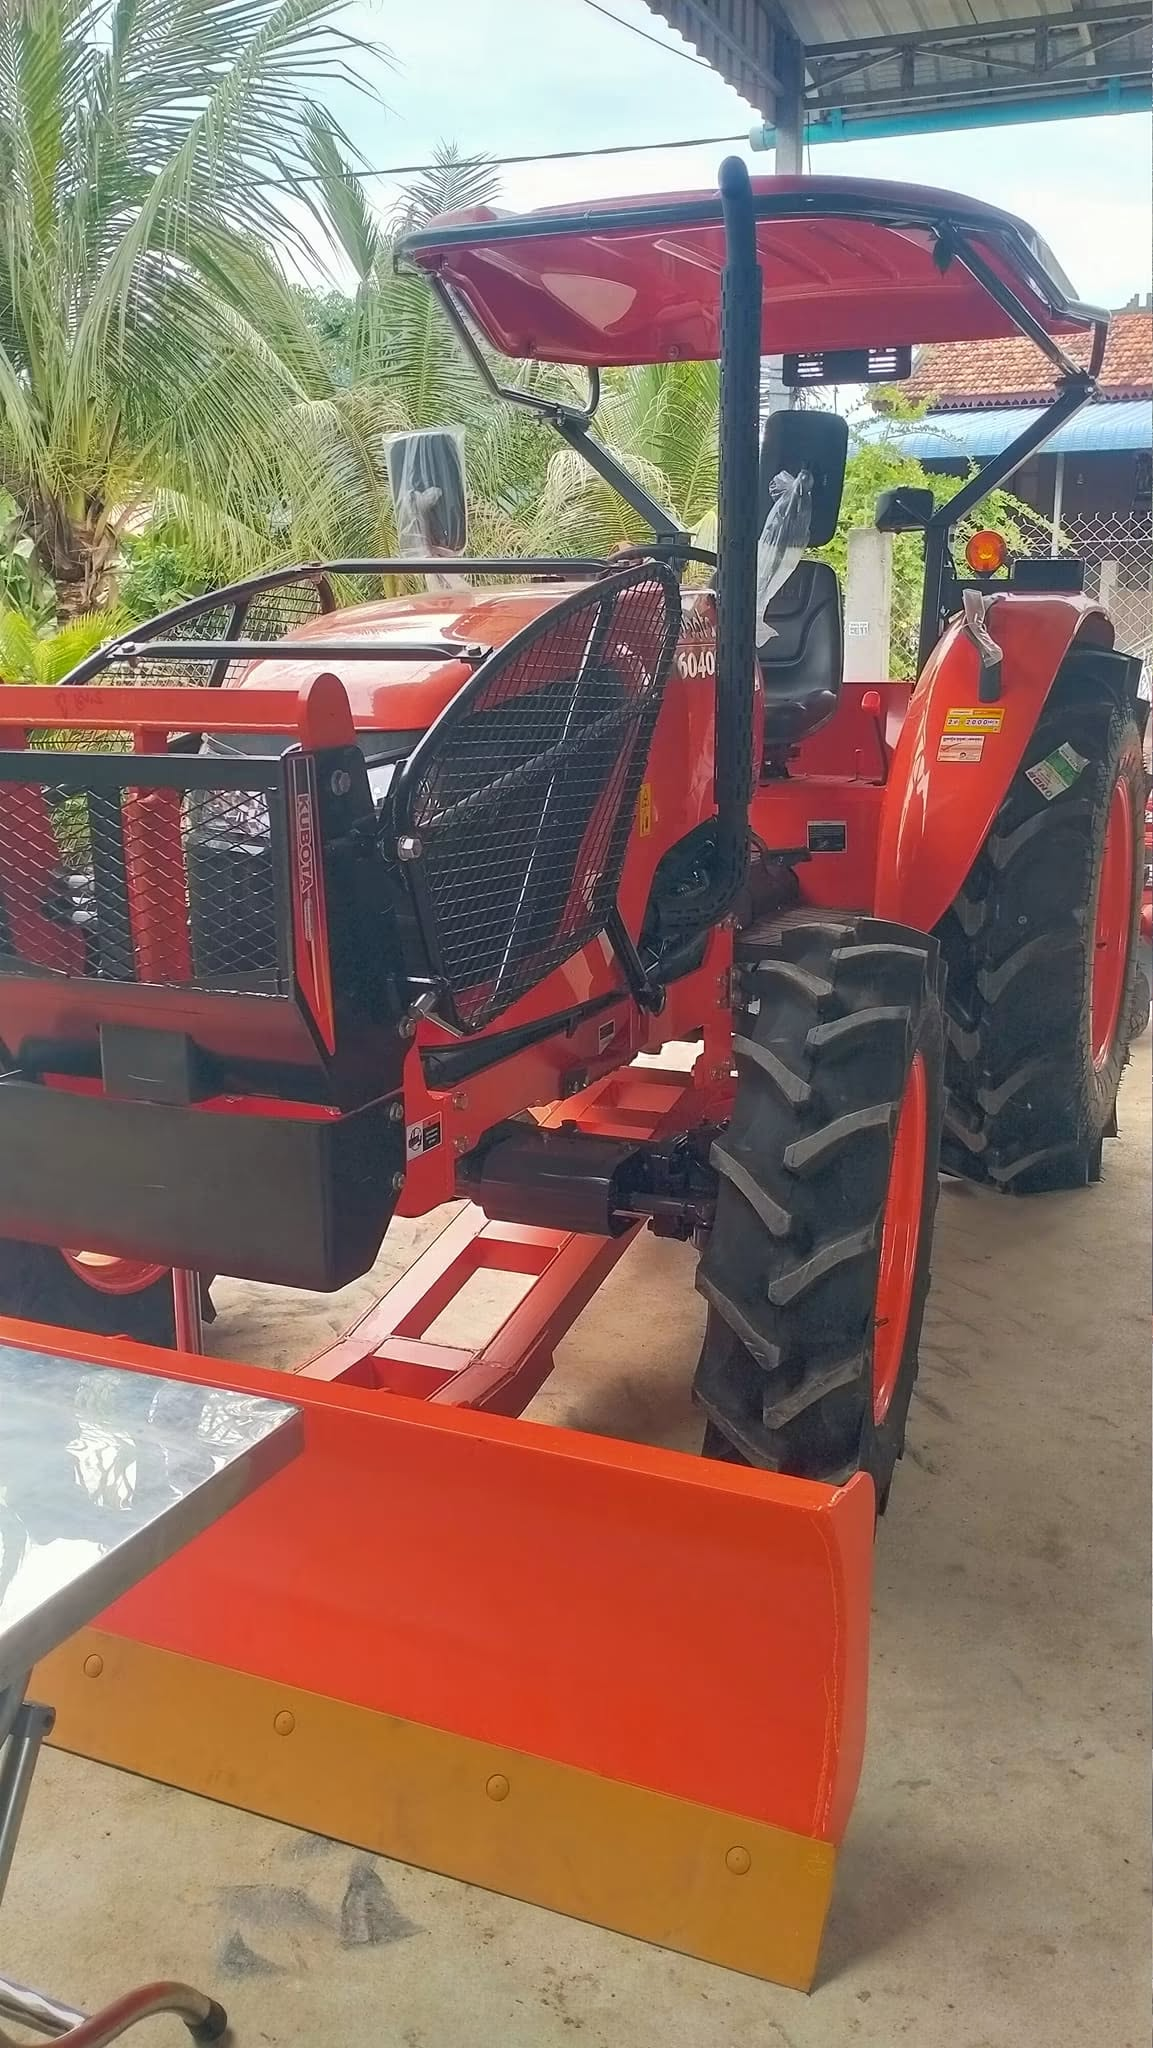
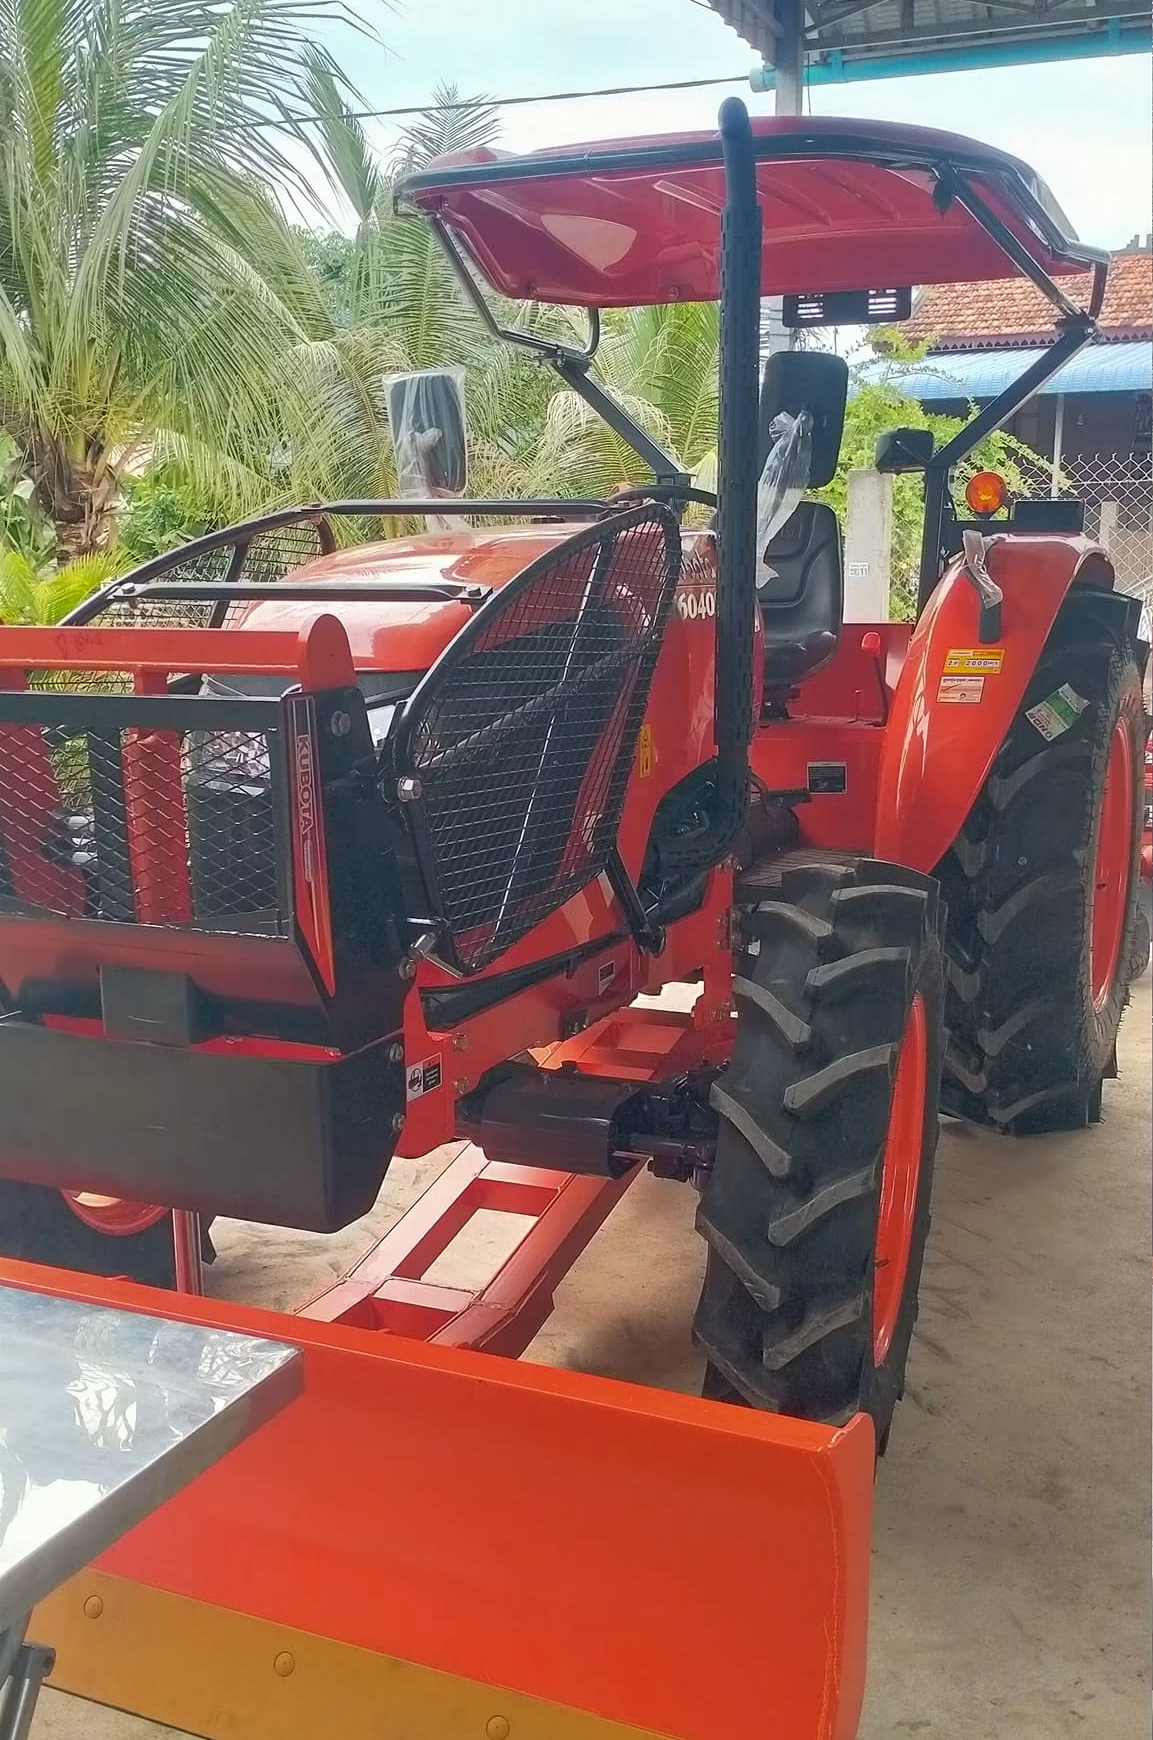
Fix photho

diff --git a/index.html b/index.html
@@ -3,13 +3,13 @@
 <head>
   <meta charset="UTF-8" />
   <meta name="viewport" content="width=device-width, initial-scale=1.0" />
-  <title>បងស្រនម៉ាស៉ុនច្រូត | សេវាកម្មច្រូតកាត់ស្រូវ និងវាយដីត្រាក់ទ័រ ខេត្តតាកែវ</title>
+  <title >បងស្រនម៉ាស៉ុនច្រូត | សេវាកម្មច្រូតកាត់ស្រូវ និងវាយដីត្រាក់ទ័រ ខេត្តតាកែវ</title>
   <meta name="description" content="បងស្រនម៉ាស៉ុនច្រូត - សេវាកម្មច្រូតកាត់ស្រូវ (Kubota DC-70 Pro) និងវាយដី ឈូសដីត្រាក់ទ័រ (Kubota M6040) នៅភូមិព្រៃភ្លង ស្រុកទ្រាំង ខេត្តតាកែវ។ ទំនាក់ទំនង 097 547 1944" />
   <link rel="preconnect" href="https://fonts.googleapis.com">
   <link rel="preconnect" href="https://fonts.gstatic.com" crossorigin>
   <link href="https://fonts.googleapis.com/css2?family=Kantumruy+Pro:wght@400;500;600;700&family=Plus+Jakarta+Sans:wght@500;600;700;800&display=swap" rel="stylesheet">
   <script src="https://cdn.tailwindcss.com"></script>
-  <link rel="stylesheet" href="styles.css" />
+  <link rel="stylesheet" href="style.css" />
 </head>
 <body class="bg-stone-50 text-stone-800 pb-24 md:pb-0">
 
@@ -18,7 +18,7 @@
     <div class="max-w-6xl mx-auto px-4 py-3 flex items-center justify-between gap-3">
       <div class="flex items-center gap-3">
         <div class="w-11 h-11 rounded-xl bg-kubota-orange text-white flex items-center justify-center font-bold text-xl shadow-sm shrink-0">
-          🚜
+          🌾
         </div>
         <div>
           <h1 class="font-bold text-lg md:text-xl text-stone-900 leading-tight" data-i18n="brandName">
@@ -73,7 +73,7 @@
       <!-- Featured Machine Card -->
       <div class="relative">
         <div class="rounded-3xl overflow-hidden border-4 border-white/15 shadow-2xl bg-stone-800">
-          <img src="images/kubota-dc70-pro.png" alt="ម៉ាស៊ីនច្រូតស្រូវ Kubota DC-70 Pro" class="w-full h-80 md:h-96 object-cover" />
+          <img src="images/kubota-dc70-pro.png" alt="ម៉ាស៊ីនច្រូតស្រូវ Kubota DC-70 Pro" class="machine-photo hero-machine w-full h-80 md:h-96" />
           <div class="p-4 bg-stone-900/90 flex items-center justify-between">
             <div>
               <p class="font-bold text-white text-base">Kubota DC-70 Pro</p>
@@ -101,7 +101,7 @@
       <!-- Service 1: Rice Harvesting -->
       <div class="bg-white rounded-3xl overflow-hidden border border-stone-200 shadow-md hover:shadow-xl transition flex flex-col">
         <div class="relative h-72 bg-stone-100">
-          <img src="images/kubota-dc70-pro.png" alt="ច្រូតកាត់ស្រូវ Kubota DC-70 Pro" class="w-full h-full object-cover" />
+          <img src="images/kubota-dc70-pro.png" alt="ច្រូតកាត់ស្រូវ Kubota DC-70 Pro" class="machine-photo harvest-photo w-full h-full" />
           <span class="absolute top-4 left-4 bg-kubota-orange text-white text-xs font-bold px-3.5 py-1.5 rounded-full shadow">
             Kubota DC-70 Pro
           </span>
@@ -129,7 +129,7 @@
       <!-- Service 2: Tractor Plowing & Tilling -->
       <div class="bg-white rounded-3xl overflow-hidden border border-stone-200 shadow-md hover:shadow-xl transition flex flex-col">
         <div class="relative h-72 bg-stone-100">
-          <img src="images/kubota-m6040.png" alt="វាយដីត្រាក់ទ័រ Kubota M6040" class="w-full h-full object-cover" />
+          <img src="images/kubota-m6040.png" alt="Kubota M6040" class="machine-photo tractor-photo w-full h-full" />
           <span class="absolute top-4 left-4 bg-paddy-green text-white text-xs font-bold px-3.5 py-1.5 rounded-full shadow">
             Kubota M6040
           </span>
@@ -245,7 +245,7 @@
   <section id="about" class="max-w-6xl mx-auto px-4 py-12 md:py-16">
     <div class="bg-white rounded-3xl border border-stone-200 shadow-md overflow-hidden grid md:grid-cols-2 items-center">
       <div class="h-80 md:h-full bg-stone-100">
-        <img src="images/owner.png" alt="ម្ចាស់អាជីវកម្ម បងស្រនម៉ាស៉ុនច្រូត" class="w-full h-full object-cover object-top" />
+        <img src="images/owner.png" alt="ម្ចាស់អាជីវកម្ម បងស្រនម៉ាស៉ុនច្រូត" class="machine-photo owner-photo w-full h-full" />
       </div>
       <div class="p-6 md:p-10 space-y-4">
         <span class="inline-block px-3 py-1 rounded-full bg-paddy-light text-paddy-green text-xs font-bold" data-i18n="aboutTag">

diff --git a/style.css b/style.css
@@ -1,6 +1,36 @@
- body {
-      font-family: 'Kantumruy Pro', 'Plus Jakarta Sans', sans-serif;
-    }
-    .touch-btn {
-      min-height: 52px;
-    }
+body {
+  font-family: 'Kantumruy Pro', 'Plus Jakarta Sans', sans-serif;
+}
+
+.machine-photo {
+  display: block;
+  width: 100%;
+  height: 100%;
+  object-fit: cover;
+  object-position: center;
+  transition: transform 0.35s ease, filter 0.35s ease;
+}
+
+.machine-photo:hover {
+  transform: scale(1.03);
+}
+
+.hero-machine {
+  object-position: center center;
+}
+
+.harvest-photo {
+  object-position: center center;
+}
+
+.tractor-photo {
+  object-position: center center;
+}
+
+.owner-photo {
+  object-position: center top;
+}
+
+.touch-btn {
+  min-height: 52px;
+}
